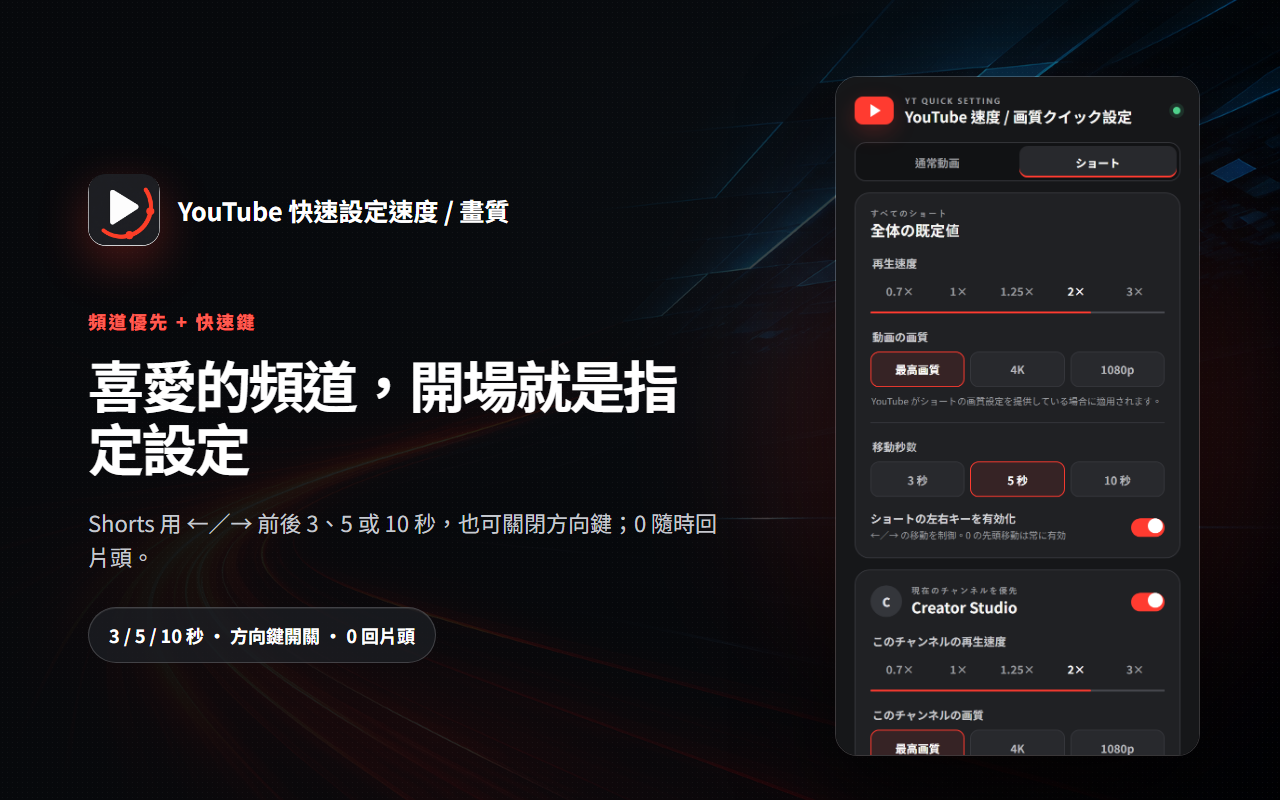
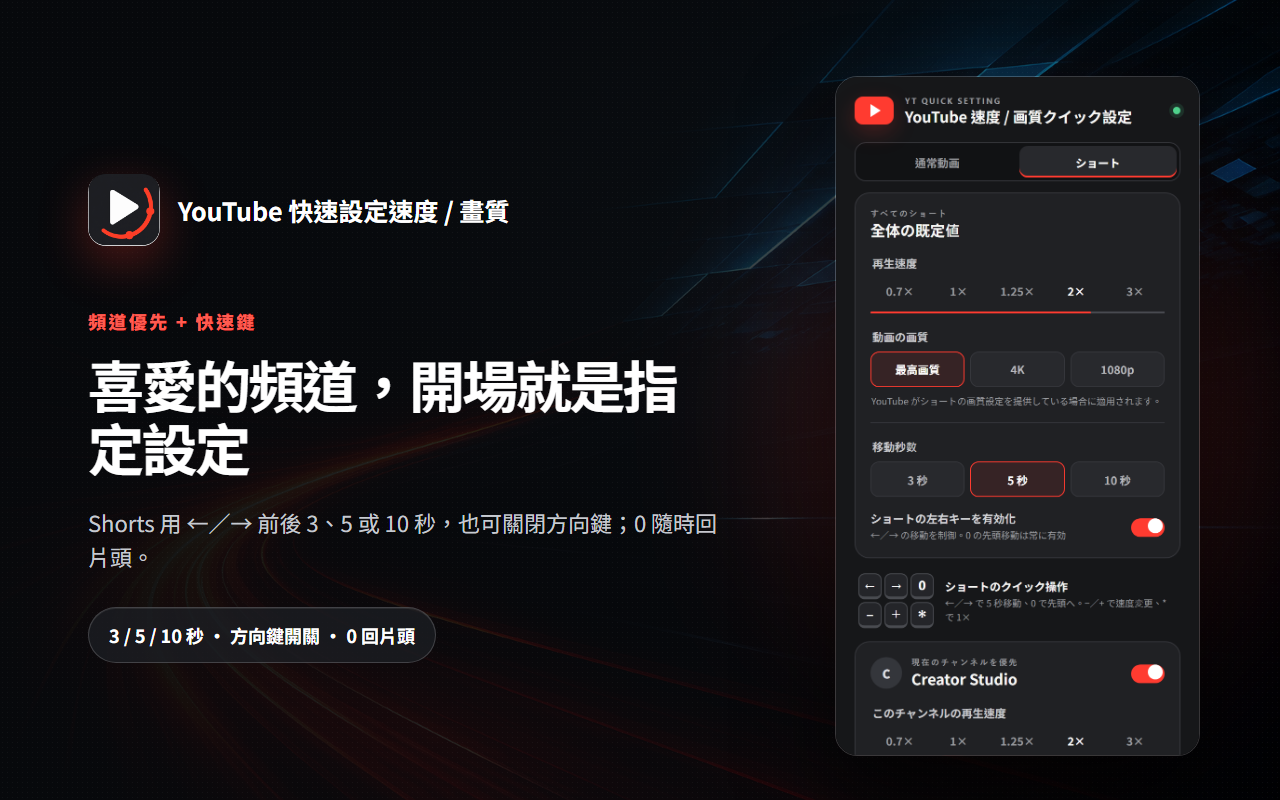
Reposition Shorts shortcut guidance

diff --git a/tests/popup-ui.test.js b/tests/popup-ui.test.js
@@ -31,6 +31,9 @@ const { chromium } = require("playwright");
   await page.waitForSelector("#globalSpeed .option-button");
   assert.equal(await page.locator("#appTitle").innerText(), "YouTube 速度 / 画質クイック設定");
   assert.equal(await page.locator("#globalSpeed .selected").innerText(), "1×");
+  const regularChannel = await page.locator("#channelCard").boundingBox();
+  const regularShortcut = await page.locator("#shortcutHint").boundingBox();
+  assert.ok(regularChannel && regularShortcut && regularShortcut.y >= regularChannel.y + regularChannel.height - 1, "regular-video shortcuts should stay below channel settings");
 
   await page.locator("[data-content-type='shorts']").click();
   assert.equal(await page.locator("#globalSpeed .selected").innerText(), "3×");
@@ -39,6 +42,12 @@ const { chromium } = require("playwright");
   assert.equal(await page.locator("#shortsControls").isVisible(), true);
   assert.equal(await page.locator("#shortsSeekSeconds .selected").innerText(), "10 秒");
   assert.equal(await page.locator("#shortsArrowKeysEnabled").isChecked(), false);
+  const shortsSettings = await page.locator(".settings-card").boundingBox();
+  const shortsShortcut = await page.locator("#shortcutHint").boundingBox();
+  const shortsChannel = await page.locator("#channelCard").boundingBox();
+  assert.ok(shortsSettings && shortsShortcut && shortsChannel, "Shorts layout regions should render");
+  assert.ok(shortsShortcut.y >= shortsSettings.y + shortsSettings.height - 1, "Shorts shortcuts should follow the seek settings");
+  assert.ok(shortsChannel.y >= shortsShortcut.y + shortsShortcut.height - 1, "Shorts shortcuts should appear above channel settings");
 
   await page.locator("#languageSelect").selectOption("en");
   assert.equal(await page.locator("#appTitle").innerText(), "YouTube Quick Speed / Quality Settings");
@@ -64,6 +73,12 @@ const { chromium } = require("playwright");
   assert.ok(shortcuts && languageSettings && languageSettings.y > shortcuts.y + shortcuts.height - 1, "language selector should be the final settings row");
   assert.equal(await page.locator(".masthead #languageSelect").count(), 0);
   assert.equal(await page.locator(".language-settings #languageSelect").isVisible(), true);
+
+  await page.locator("[data-content-type='regular']").click();
+  const movedRegularChannel = await page.locator("#channelCard").boundingBox();
+  const movedRegularShortcut = await page.locator("#shortcutHint").boundingBox();
+  assert.ok(movedRegularChannel && movedRegularShortcut && movedRegularShortcut.y >= movedRegularChannel.y + movedRegularChannel.height - 1, "switching back should restore the regular shortcut position");
+  await page.locator("[data-content-type='shorts']").click();
 
   await page.locator("#languageSelect").selectOption("zh-Hant");
   assert.equal(await page.locator("#appTitle").innerText(), "YouTube 快速設定速度 / 畫質");

diff --git a/scripts/render-marketing-assets.js b/scripts/render-marketing-assets.js
@@ -106,7 +106,7 @@ async function renderHero(browser, localeKey, locale, popupPath) {
       .shot{position:relative;justify-self:end;transform:rotate(2deg)}.shot:before{content:"";position:absolute;inset:10% -13%;border-radius:50%;background:#ff3b30;filter:blur(150px);opacity:.27}
       .shot img{position:relative;width:800px;border:2px solid rgba(255,255,255,.18);border-radius:34px;box-shadow:0 90px 180px rgba(0,0,0,.66),0 0 0 18px rgba(255,255,255,.025)}
       footer{position:absolute;z-index:3;left:282px;right:260px;bottom:86px;display:flex;justify-content:space-between;color:#8d9097;font-size:24px;letter-spacing:.06em}
-    </style></head><body><div class="noise"></div><main><section><div class="brand"><img src="${icon}"><strong>${locale.brandName}</strong></div><p class="eyebrow">${locale.eyebrow}</p><h1>${locale.title}</h1><p class="subtitle">${locale.subtitle}</p><div class="chips">${chips}</div></section><div class="shot"><img src="${popup}"></div></main><footer><span>CHROME EXTENSION · v1.3.0</span><span>繁體中文 · ENGLISH · 日本語</span></footer></body></html>`);
+    </style></head><body><div class="noise"></div><main><section><div class="brand"><img src="${icon}"><strong>${locale.brandName}</strong></div><p class="eyebrow">${locale.eyebrow}</p><h1>${locale.title}</h1><p class="subtitle">${locale.subtitle}</p><div class="chips">${chips}</div></section><div class="shot"><img src="${popup}"></div></main><footer><span>CHROME EXTENSION · v1.3.1</span><span>繁體中文 · ENGLISH · 日本語</span></footer></body></html>`);
   await page.screenshot({ path: path.join(outputDir, `promo-${localeKey}-4k.png`), animations: "disabled" });
   await page.close();
 }

diff --git a/popup.html b/popup.html
@@ -61,6 +61,8 @@
         </div>
       </section>
 
+      <div class="shortcut-slot" id="shortsShortcutSlot"></div>
+
       <section class="channel-card" id="channelCard" aria-labelledby="channelHeading">
         <div class="section-heading">
           <div class="channel-title-wrap">
@@ -93,10 +95,12 @@
         <p class="channel-empty" id="channelEmpty">請在 YouTube 影片頁面開啟此面板，即可加入頻道專屬設定。</p>
       </section>
 
-      <footer class="shortcut-hint">
-        <div class="key-pair" id="shortcutKeys" aria-hidden="true"><kbd>−</kbd><kbd>＋</kbd><kbd>＊</kbd></div>
-        <p><strong id="shortcutTitle">播放時直接調速</strong><span id="shortcutDescription">按 −／+ 切換速度，按 * 恢復 1×</span></p>
-      </footer>
+      <div class="shortcut-slot" id="regularShortcutSlot">
+        <footer class="shortcut-hint" id="shortcutHint">
+          <div class="key-pair" id="shortcutKeys" aria-hidden="true"><kbd>−</kbd><kbd>＋</kbd><kbd>＊</kbd></div>
+          <p><strong id="shortcutTitle">播放時直接調速</strong><span id="shortcutDescription">按 −／+ 切換速度，按 * 恢復 1×</span></p>
+        </footer>
+      </div>
 
       <div class="language-settings">
         <div class="language-label">

diff --git a/popup.js b/popup.js
@@ -304,6 +304,8 @@ function renderType() {
     button.setAttribute("aria-current", selected ? "true" : "false");
   });
   applyTranslations();
+  const shortcutTarget = $(activeContentType === "shorts" ? "#shortsShortcutSlot" : "#regularShortcutSlot");
+  if ($("#shortcutHint").parentElement !== shortcutTarget) shortcutTarget.append($("#shortcutHint"));
   renderGlobal();
   renderChannel();
 }

diff --git a/docs/releases/v1.3.1.md b/docs/releases/v1.3.1.md
@@ -1,0 +1,11 @@
+# YouTube 快速設定速度 / 畫質 v1.3.1
+
+## 介面調整
+
+- Shorts 分頁的「快速操作」按鍵說明移到快進秒數與方向鍵設定下方。
+- Shorts 快速操作說明現在位於頻道優先設定上方，相關控制集中在同一區域。
+- 切回一般影片時，播放速度快捷鍵說明仍維持在頻道設定下方。
+
+## 相容性
+
+- 不改變快捷鍵功能、使用者設定或 Chrome 權限。
